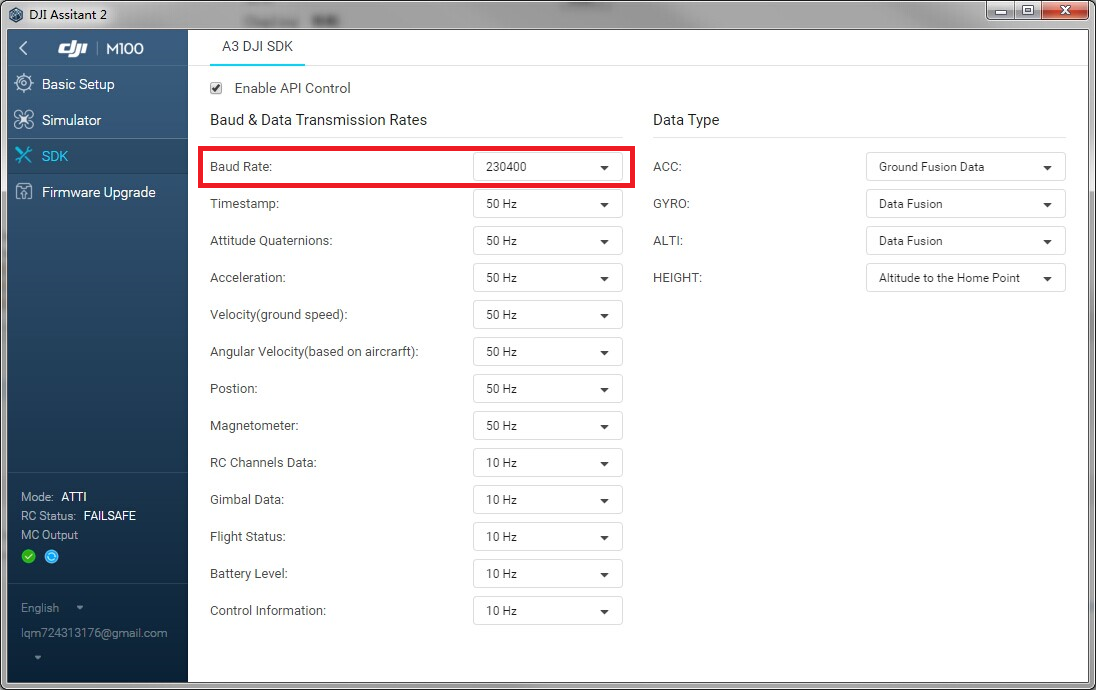
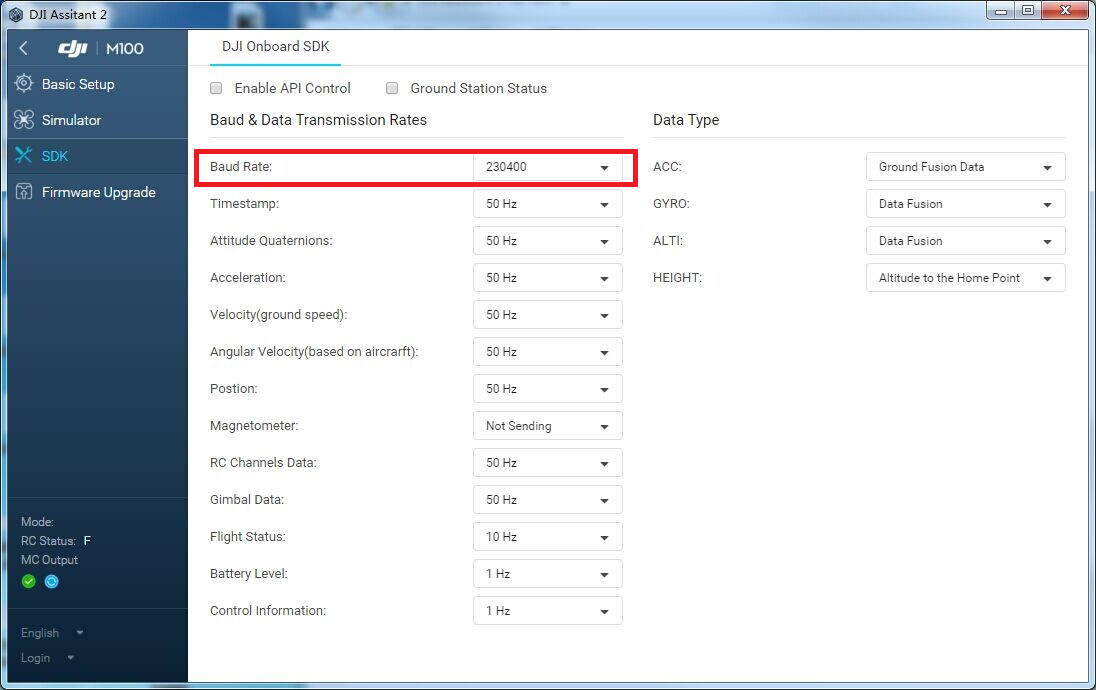
update GS document

diff --git a/doc/en/GroudStationProgrammingGuide.md b/doc/en/GroudStationProgrammingGuide.md
@@ -159,8 +159,11 @@ Hotpoint is a functionality that allows the drone to circle around a given point
 
 ## The Status Push Information and Event Push Information
 
-  There is a broadcast data of drone status in firmware 2.3.
-  Similary, we have built a protocol to push groundstation information.
+  There is a broadcast of flight data in firmware 2.3. In 3.1, we add a similar protocol to push groundstation status and events.
+
+  Note: Developers should select the `Ground Station Status` checkbox in DJI Assistant in order to receive the pushed info.
+
+  ![](Images/groundstation.png)
   
 1. Status Push Information
 

diff --git a/doc/cn/地面站协议.md b/doc/cn/地面站协议.md
@@ -482,6 +482,10 @@ typedef struct{
 
 ---
 
+注意：以下为飞控推送信息而非指令接口，其调用方法类似于飞机的状态广播信息。在使用之前开发者需要在调参软件中勾选地面站信息推送。
+
+    ![](Images/groundstation.png)
+
 ## 0x02, 0x03：当前任务状态推送信息
 
 一共有四种推送状态的类型共用此命令集和命令码，他们的结构体有相同长度。

diff --git a/doc/en/GroundStationProtocol.md b/doc/en/GroundStationProtocol.md
@@ -480,6 +480,13 @@ typedef struct{
 
 NO ACK
 
+---
+
+The following CMD SET/ID are not API but broadcast data protocol, by which developers can check the current mission status and events like how flight data works.
+
+Note: Developers should select the `Ground Station Status` checkbox in DJI Assistant.
+
+    ![](Images/groundstation.png)
 
 ## 0x02, 0x03 Current Mission State Push Information 
 

diff --git a/doc/cn/地面站编程指南.md b/doc/cn/地面站编程指南.md
@@ -161,6 +161,10 @@
 ## 状态推送和事件推送
 
   2.3 固件中有飞机状态信息的推送，在 3.0 固件中我们加入了地面站相关的推送信息。
+
+  注意：开发者需要提前在调参中打开地面站消息推送选项。
+
+  ![](Images/groundstation.png)
   
 1. 状态推送信息
 
